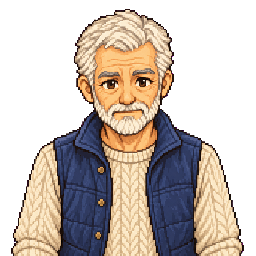
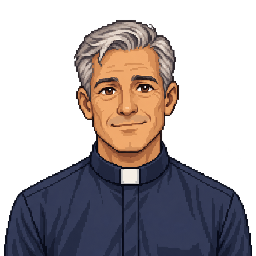
Integrate reviewed Gabriel art into isolated game candidate

diff --git a/_qa/gabriel-art-integration.test.ts b/_qa/gabriel-art-integration.test.ts
@@ -1,0 +1,46 @@
+import test from 'node:test';
+import assert from 'node:assert/strict';
+import {createHash} from 'node:crypto';
+import {readFileSync} from 'node:fs';
+import type {Direction} from '@rpgjs/common';
+import {people,rooms} from '../src/world/data';
+import {npcSheets} from '../src/world/sheets';
+import {residentHere} from '../src/world/residents';
+import crops from '../src/ui/people-avatar-crops.json';
+import provenance from '../public/art/people-avatars/PROVENANCE.json';
+
+const files=[
[4 lines of base64/hex data omitted]
+] as const;
+
+test('only the reviewed Gabriel consumer files replace his placeholder',()=>{
+ for(const [path,hash,width,height] of files){const bytes=readFileSync(path);assert.equal(createHash('sha256').update(bytes).digest('hex'),hash,path);assert.equal(bytes.toString('ascii',1,4),'PNG');assert.equal(bytes.readUInt32BE(16),width);assert.equal(bytes.readUInt32BE(20),height)}
+ assert.equal(people.gabriel.art,'gabriel');assert.equal(people.gabriel.mapArt,'gabriel');assert.equal(people.gabriel.portraitShape,'square');
+ assert.equal(people.arthur.art,'arthur');assert.equal(rooms.weather.entities.find(e=>e.person==='arthur')?.person,'arthur');
+ assert.deepEqual(crops.gabriel,[32,12,192,240]);
+ assert.equal(provenance.sources.find(x=>x.person==='gabriel')?.sha256,files[1][1]);
+});
+
+test('Gabriel has his own four-row native atlas contract while older NPC rows stay unchanged',()=>{
+ const gabriel=npcSheets.find(s=>s.id==='npc-gabriel');assert.ok(gabriel);assert.equal(gabriel.image,'./art/npc-gabriel.png');
+ assert.deepEqual([gabriel.width,gabriel.height,gabriel.framesWidth,gabriel.framesHeight],[384,512,3,4]);
+ const rows={down:0,up:1,left:2,right:3},columns={'stride-0':0,stand:1,'stride-2':2,'stride-1':1} as const;
+ for(const direction of Object.keys(rows) as Direction[])for(const [animation,column] of Object.entries(columns)){
+  const row=rows[direction as keyof typeof rows],frame:any=gabriel.textures[animation].animations({direction})[0][0];
+  assert.deepEqual([frame.frameX,frame.frameY,frame.x,frame.y],[column,row,0,0]);
+  assert.deepEqual(frame.anchor,[.5,.953125]);assert.deepEqual(frame.scale,[56/108,56/108]);
+ }
+ const arthur=npcSheets.find(s=>s.id==='npc-arthur');assert.ok(arthur);
+ assert.deepEqual((['down','left','right','up'] as Direction[]).map(direction=>arthur.textures.stand.animations({direction})[0][0].frameY),[0,1,2,3]);
+});
+
+test('Gabriel continues the existing chapel, hill and evening schedule without changing old identity',()=>{
+ assert.equal(Object.keys(people).length,23);
+ for(const [minute,scene] of [[540,'chapel'],[780,'hill'],[1080,'chapel']] as const){
+  assert.equal(residentHere({townMinutes:minute},'gabriel',scene),true);
+  assert.equal(rooms[scene].entities.filter(e=>e.person==='gabriel').length,1);
+ }
+});

diff --git a/src/world/sheets.ts b/src/world/sheets.ts
@@ -11,7 +11,9 @@ export const sheets:any[]=Object.values(rooms).flatMap(r=>[
  ...['base','north','side','front'].flatMap(layer=>{const d=mapDimensions[(r.id+'-'+layer) as keyof typeof mapDimensions];return d.empty?[]:[graphic(`${layer}-${r.id}`,`./map/${r.id}-${layer}.png`,d.width,d.height,[0,layer==='front'?1:0],1)]}),
  ...r.props.filter(p=>!p.floorDecoration).flatMap(p=>[p.art,...(p.state?[p.state.art]:[])].map((art,index)=>{const d=dimensions[art as keyof typeof dimensions];return graphic(propId(r.id,p)+(index?'-active':''),`./art/${art}.png`,d.width,d.height,[.5,1],p.width/d.width)}))]);
 
-export const npcSheets=Object.keys(people).filter(techNomadAdmitted).map(id=>({...heroSheet,id:'npc-'+id,image:`./art/npc-${people[id].mapArt??people[id].art}.png`,textures:Object.fromEntries([['stand',1],['stride-0',0],['stride-1',1],['stride-2',2]].map(([name,col])=>[name,{animations:({direction}:{direction:Direction})=>[[{frameX:col,frameY:row(direction),time:0,anchor:[.5,122/128],scale:[56/108,56/108],x:0,y:0}]]}]))}));
+const npcRow=(id:string,d:Direction)=>id==='gabriel'?({down:0,up:1,left:2,right:3}[d]??0):row(d);
+const npcTexture=(id:string,col:number)=>({animations:({direction}:{direction:Direction})=>[[{frameX:col,frameY:npcRow(id,direction),time:0,anchor:[.5,122/128],scale:[56/108,56/108],x:0,y:0}]]});
+export const npcSheets=Object.keys(people).filter(techNomadAdmitted).map(id=>({...heroSheet,id:'npc-'+id,image:`./art/npc-${people[id].mapArt??people[id].art}.png`,textures:Object.fromEntries([['stand',1],['stride-0',0],['stride-1',1],['stride-2',2]].map(([name,col])=>[name,npcTexture(id,Number(col))]))}));
 sheets.push(...npcSheets);
 
 // Three platform-generated growth stages, one shared image/world scale and root anchor.

diff --git a/src/world/chapel-priest.ts b/src/world/chapel-priest.ts
@@ -1,15 +1,15 @@
 import type {Words} from './data';
 
 export const chapelPriestId='gabriel';
-/** Development placeholder only. A dedicated admitted family is required before release. */
+/** Reviewed local consumer art; formal Library admission and release remain separate gates. */
 export const chapelPriest={
  id:chapelPriestId,age:56,
  name:['加布里埃尔·沃德神父','Father Gabriel Ward'] as Words,
  unknown:['整理椅子的神父','Priest arranging the chairs'] as Words,
  intro:['“我叫加布里埃尔·沃德，在这里做神父。小时候住在海湾，后来去了内陆十八年。现在又回来了。”他把椅子往旁边挪了一点。“叫我加布里埃尔就好。进来坐坐？”','“Gabriel Ward. I’m the priest here. I grew up by the bay, then spent eighteen years inland. Now I’m back.” He moves a chair aside. “Gabriel is fine. Would you like to sit?”'] as Words,
  role:['教堂的神父。重回故乡，喜欢修旧收音机，也在学着把空闲留给自己。','The chapel priest, home again. He repairs old radios and is learning to leave himself some time off.'] as Words,
- art:'arthur',mapArt:'arthur',
- artStatus:'development-placeholder-not-admitted',
+ art:'gabriel',mapArt:'gabriel',avatarArt:'gabriel',portraitShape:'square' as const,
+ artStatus:'local-consumer-qualified-formal-library-pending',
  routes:[{scene:'chapel',at:{x:475,y:315}},{scene:'hill',at:{x:600,y:500}},{scene:'chapel',at:{x:475,y:315}}],
  activities:[
   ['他做完晨祷，正把阅读角的椅子摆好，给早来的邻居留位置。','After morning prayer, he sets out chairs for the first neighbors at the reading corner.'],
